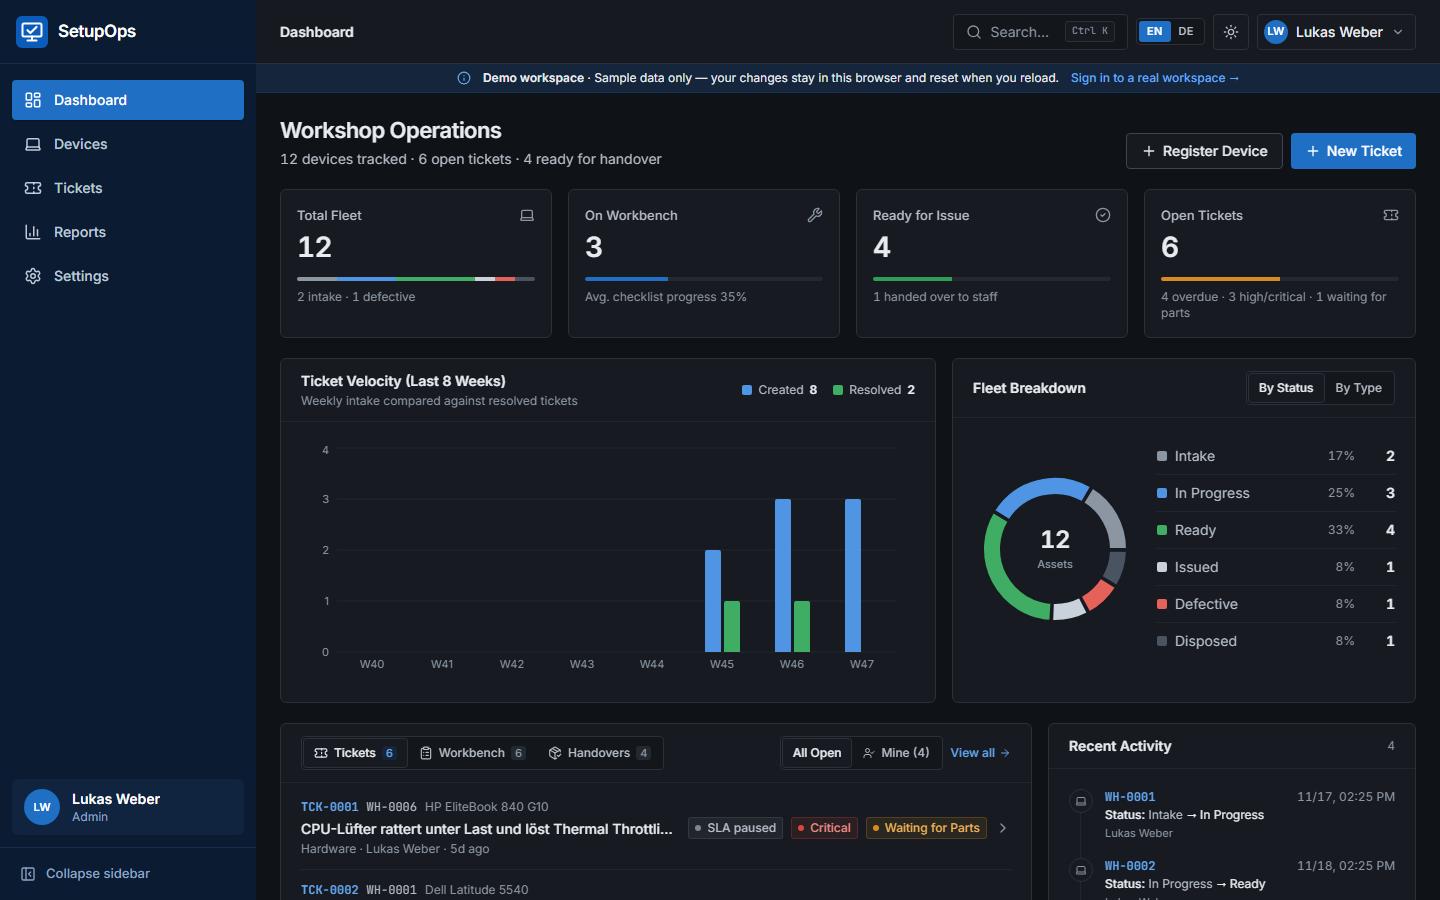
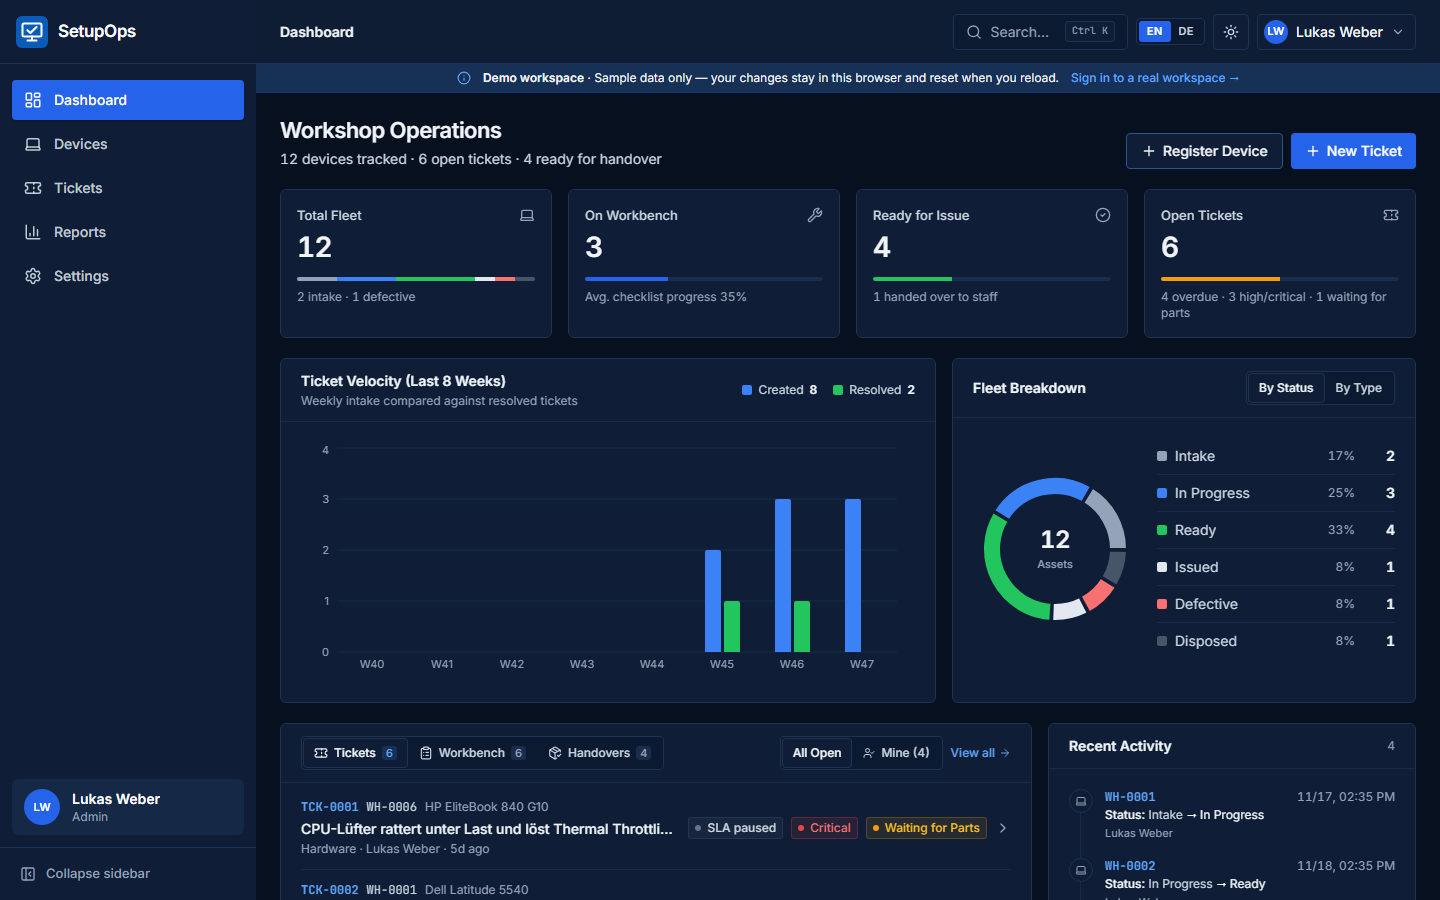
feat(ui): navy dark mode matching the sidebar
- Dark palette switched from neutral grey to the navy family of the earlier
  SetupOps version: canvas #07101F, surfaces #0F1E36, borders #1E3252
- Dark sidebar uses the card navy so sidebar, top bar and cards form one
  surface; brighter blue primary/accents and chart series for navy
- Refreshed README dark-mode screenshot

diff --git a/src/index.css b/src/index.css
@@ -142,56 +142,57 @@
 }
 
 .dark {
-  --so-canvas: #0f1216;
-  --so-surface: #171b21;
-  --so-subtle: #13171c;
-  --so-field: #12161b;
-  --so-muted: #232931;
-  --so-accent-soft: #15263c;
+  /* Navy dark palette (matches the sidebar): deep navy canvas, navy cards. */
+  --so-canvas: #07101f;
+  --so-surface: #0f1e36;
+  --so-subtle: #0b1a30;
+  --so-field: #091529;
+  --so-muted: #1a2d4d;
+  --so-accent-soft: #173056;
 
-  --so-line: #2b3139;
-  --so-line-subtle: #22272e;
-  --so-line-strong: #3d4550;
+  --so-line: #1e3252;
+  --so-line-subtle: #182a47;
+  --so-line-strong: #2f5386;
 
-  --so-fg: #e8ebef;
-  --so-fg-muted: #b5bdc8;
-  --so-fg-subtle: #8c96a3;
-  --so-accent: #64a8f2;
+  --so-fg: #f1f5f9;
+  --so-fg-muted: #cbd5e1;
+  --so-fg-subtle: #94a3b8;
+  --so-accent: #60a5fa;
 
-  --so-primary: #1f6fc5;
-  --so-primary-hover: #2a7fd8;
+  --so-primary: #2563eb;
+  --so-primary-hover: #3b82f6;
   --so-on-primary: #ffffff;
-  --so-focus: #64a8f2;
+  --so-focus: #3b82f6;
 
-  --so-success: #2f9e55;
-  --so-success-fg: #5cc581;
-  --so-success-soft: rgb(47 158 85 / 0.16);
-  --so-warning: #d98a1f;
-  --so-warning-fg: #f0b257;
-  --so-warning-soft: rgb(217 138 31 / 0.16);
-  --so-danger: #d9473f;
-  --so-danger-fg: #f08a83;
-  --so-neutral: #7d8794;
+  --so-success: #22c55e;
+  --so-success-fg: #4ade80;
+  --so-success-soft: rgb(34 197 94 / 0.14);
+  --so-warning: #f59e0b;
+  --so-warning-fg: #fbbf24;
+  --so-warning-soft: rgb(245 158 11 / 0.14);
+  --so-danger: #ef4444;
+  --so-danger-fg: #f87171;
+  --so-neutral: #64748b;
 
-  --so-sidebar: #0b1b31;
-  --so-sidebar-line: #172c4a;
-  --so-sidebar-fg: #dfe8f5;
-  --so-sidebar-muted: #8ea4c4;
-  --so-sidebar-hover: #13284a;
-  --so-sidebar-raised: #102440;
-  --so-shell: #0a0d11;
-  --so-shell-fg: #e8ebef;
-  --so-shell-muted: #8c96a3;
-  --so-shell-line: #22272e;
-  --so-shell-hover: #1c2129;
+  --so-sidebar: #0f1e36;
+  --so-sidebar-line: #1e3252;
+  --so-sidebar-fg: #e2e8f0;
+  --so-sidebar-muted: #94a3b8;
+  --so-sidebar-hover: #173056;
+  --so-sidebar-raised: #152846;
+  --so-shell: #091529;
+  --so-shell-fg: #f1f5f9;
+  --so-shell-muted: #94a3b8;
+  --so-shell-line: #1e3252;
+  --so-shell-hover: #173056;
 
-  --so-chart-1: #4f95e3;
-  --so-chart-2: #3fae64;
-  --so-chart-3: #e09a3a;
-  --so-chart-4: #e5625a;
-  --so-chart-5: #8c96a3;
-  --so-chart-6: #c9d1db;
-  --so-chart-7: #4a5361;
+  --so-chart-1: #3b82f6;
+  --so-chart-2: #22c55e;
+  --so-chart-3: #f59e0b;
+  --so-chart-4: #f87171;
+  --so-chart-5: #94a3b8;
+  --so-chart-6: #e2e8f0;
+  --so-chart-7: #475569;
 
   color-scheme: dark;
 }
